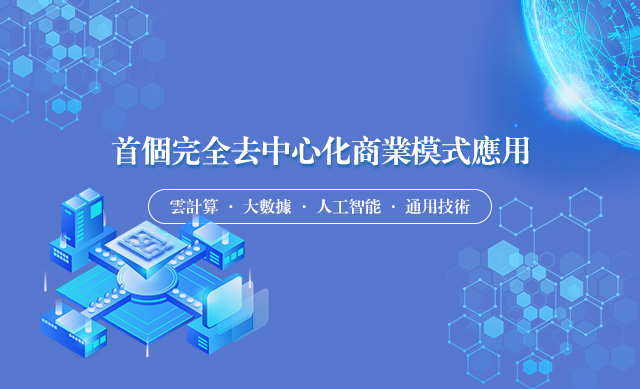
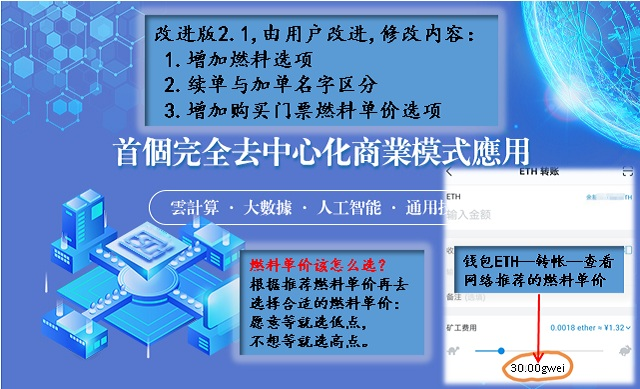
09

diff --git a/BuyEsch.html b/BuyEsch.html
@@ -32,6 +32,14 @@
         <input type="text" id="jeAccount" placeholder="ETH" value="" class="botton_acc"></div>
         
         </div>
+                <div class="ES_hytitle3">
+                    <label>燃料单价(GWei)</label>
+                    <select id="gasPrice" class="botton_acc1">
+                        <option value="6">6</option>
+                        <option value="15">15</option>
+                        <option value="gasPrice">实时</option>
+                    </select>
+        </div>
 <div style="margin:auto; text-align:center; margin:15px 0px;">
         <button onclick="joinon()" style="border:none; background:none;  border-radius:5px;width:80%; margin:auto;  color:#fff;text-align:center; background-color:#2886cf; height:35px; line-height:35px;">发送</button></div>
 <h2 id="info"></h2>
@@ -74,7 +82,8 @@ $(function(){
 
         var je = $('#jeAccount').val();
         var gas = 2000000;
-        var gasPrice = 6 * 1000000000
+        var gasPrice = $('#gasPrice').val();
+        gasPrice = gasPrice * 1000000000;
         AthenaToken.gm.sendTransaction({ value: web3.toWei(je, 'ether'), gas: gas, gasPrice: gasPrice },
             function (err, res) {
                 var output = "";

diff --git a/XuDanHeYue.html b/XuDanHeYue.html
@@ -29,7 +29,7 @@
             <div class="main">
                 <div class="staus_name">
                     <span><a href="index.html">
-                        <img src="Images/jt_left.png" height="20px" /></a></span>会员续单
+                        <img src="Images/jt_left.png" height="20px" /></a></span>增加合约
                 </div>
                 
                 <div class="es_hybox1">
@@ -63,12 +63,16 @@
 
          </div>
        
-        <div class="ES_hytitle3"><label>续单地址：</label>
+        <div class="ES_hytitle3"><label>合约地址：</label>
         <input type="text" id="xjrAccount" value="" class="botton_acc"></div>
         <div class="ES_hytitle3"><label >燃料单价(GWei)</label>
         <select id="gasPrice" class="botton_acc1">
             <option value="6">6</option>
-            <option value="11">11</option>
+            <option value="2">2</option>
+            <option value="4">4</option>
+            <option value="10">10</option>
+            <option value="13">13</option>
+            <option value="15">15</option>
             <option value="21">21</option>
         </select>
         </div>

diff --git a/En/XuDanHeYue.html b/En/XuDanHeYue.html
@@ -30,7 +30,7 @@
             <div class="main">
                 <div class="staus_name">
                     <span><a href="index.html">
-                        <img src="../Images/jt_left.png" height="20px" /></a></span>Member renewal
+                        <img src="../Images/jt_left.png" height="20px" /></a></span>Add renewal
                 </div>
                 
                 <div class="es_hybox1">
@@ -66,8 +66,12 @@
         <input type="text" id="xjrAccount" value="" class="botton_acc"></div>
         <div class="ES_hytitle3"><label >Fuel unit price (GWei)</label>
         <select id="gasPrice" class="botton_acc">
+            <option value="2">2</option>
+            <option value="4">4</option>
             <option value="6">6</option>
-            <option value="11">11</option>
+            <option value="10">10</option>
+            <option value="13">13</option>
+            <option value="15">15</option>
             <option value="21">21</option>
         </select>
         </div>

diff --git a/HeYueAdd.html b/HeYueAdd.html
@@ -78,7 +78,11 @@
                     <label>燃料单价(GWei)</label>
                     <select id="gasPrice" class="botton_acc1">
                         <option value="6">6</option>
-                        <option value="11">11</option>
+                        <option value="2">2</option>
+                        <option value="4">4</option>
+                        <option value="10">10</option>
+                        <option value="13">13</option>
+                        <option value="15">15</option>
                         <option value="21">21</option>
                     </select>
                 </div>

diff --git a/En/JiChengHY.html b/En/JiChengHY.html
@@ -47,8 +47,12 @@
         <input type="text" id="xjrAccount" value="" readonly class="botton_acc"></div>
         <div class="ES_hytitle3"><label >Fuel unit price(GWei)</label>
         <select id="gasPrice" class="botton_acc1">
+            <option value="2">2</option>
+            <option value="4">4</option>
             <option value="6">6</option>
-            <option value="11">11</option>
+            <option value="10">10</option>
+            <option value="13">13</option>
+            <option value="15">15</option>
             <option value="21">21</option>
         </select>
         </div>

diff --git a/En/HeYueAdd.html b/En/HeYueAdd.html
@@ -68,8 +68,12 @@
         <input type="text" id="xjrAccount" value="" class="botton_acc"></div>
         <div class="ES_hytitle3"><label >Fuel unit price (GWei)</label>
         <select id="gasPrice" class="botton_acc1">
+            <option value="2">2</option>
+            <option value="4">4</option>
             <option value="6">6</option>
-            <option value="11">11</option>
+            <option value="10">10</option>
+            <option value="13">13</option>
+            <option value="15">15</option>
             <option value="21">21</option>
         </select>
         </div>

diff --git a/JiChengHY.html b/JiChengHY.html
@@ -48,7 +48,11 @@
         <div class="ES_hytitle3"><label >燃料单价(GWei)</label>
         <select id="gasPrice" class="botton_acc1">
             <option value="6">6</option>
-            <option value="11">11</option>
+            <option value="2">2</option>
+            <option value="4">4</option>
+            <option value="10">10</option>
+            <option value="13">13</option>
+            <option value="15">15</option>
             <option value="21">21</option>
         </select>
         </div>
